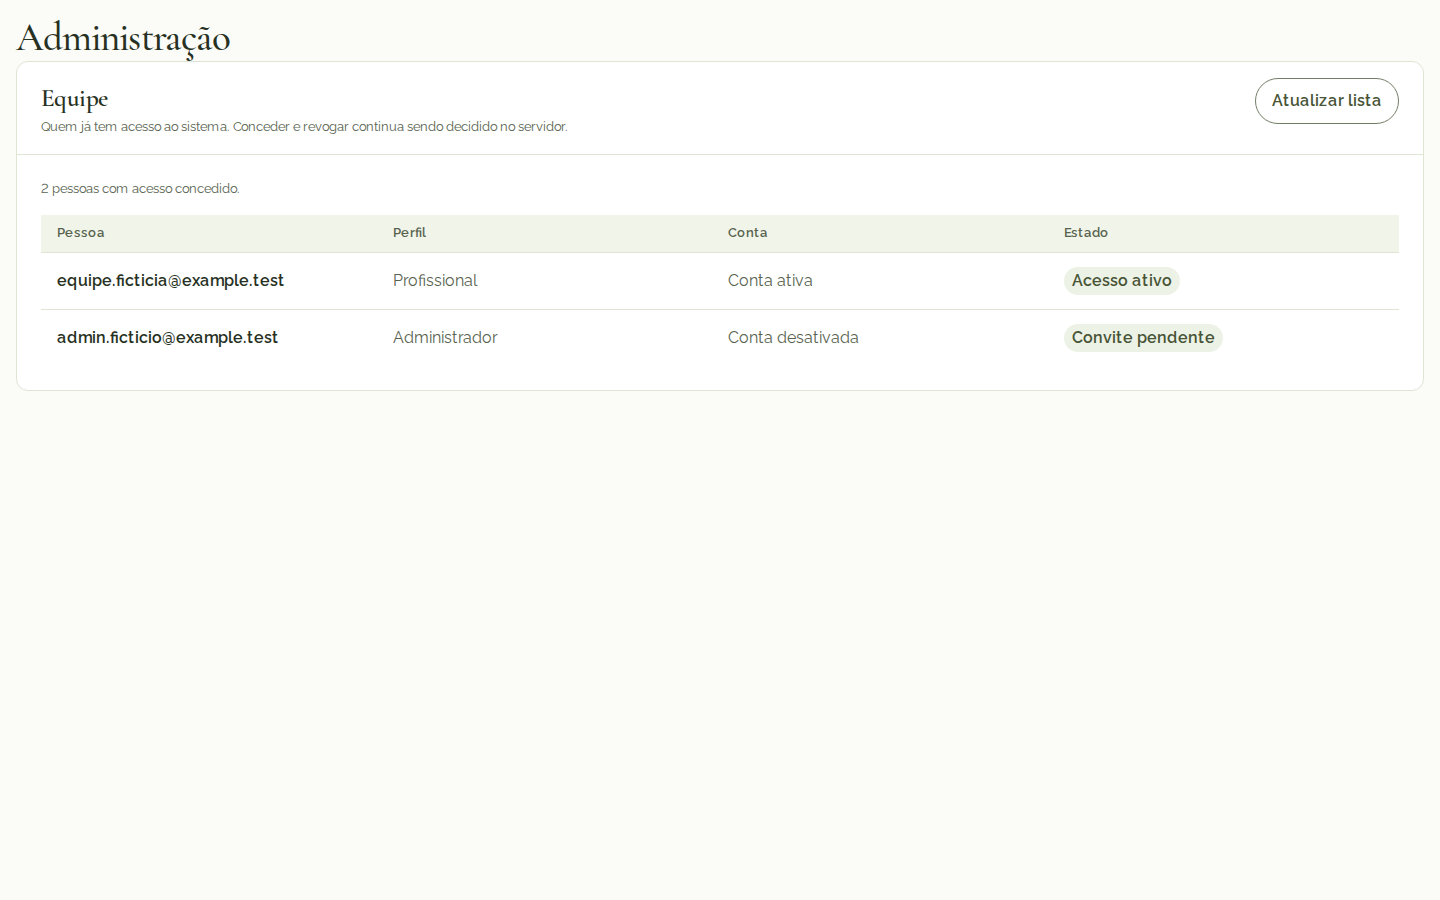
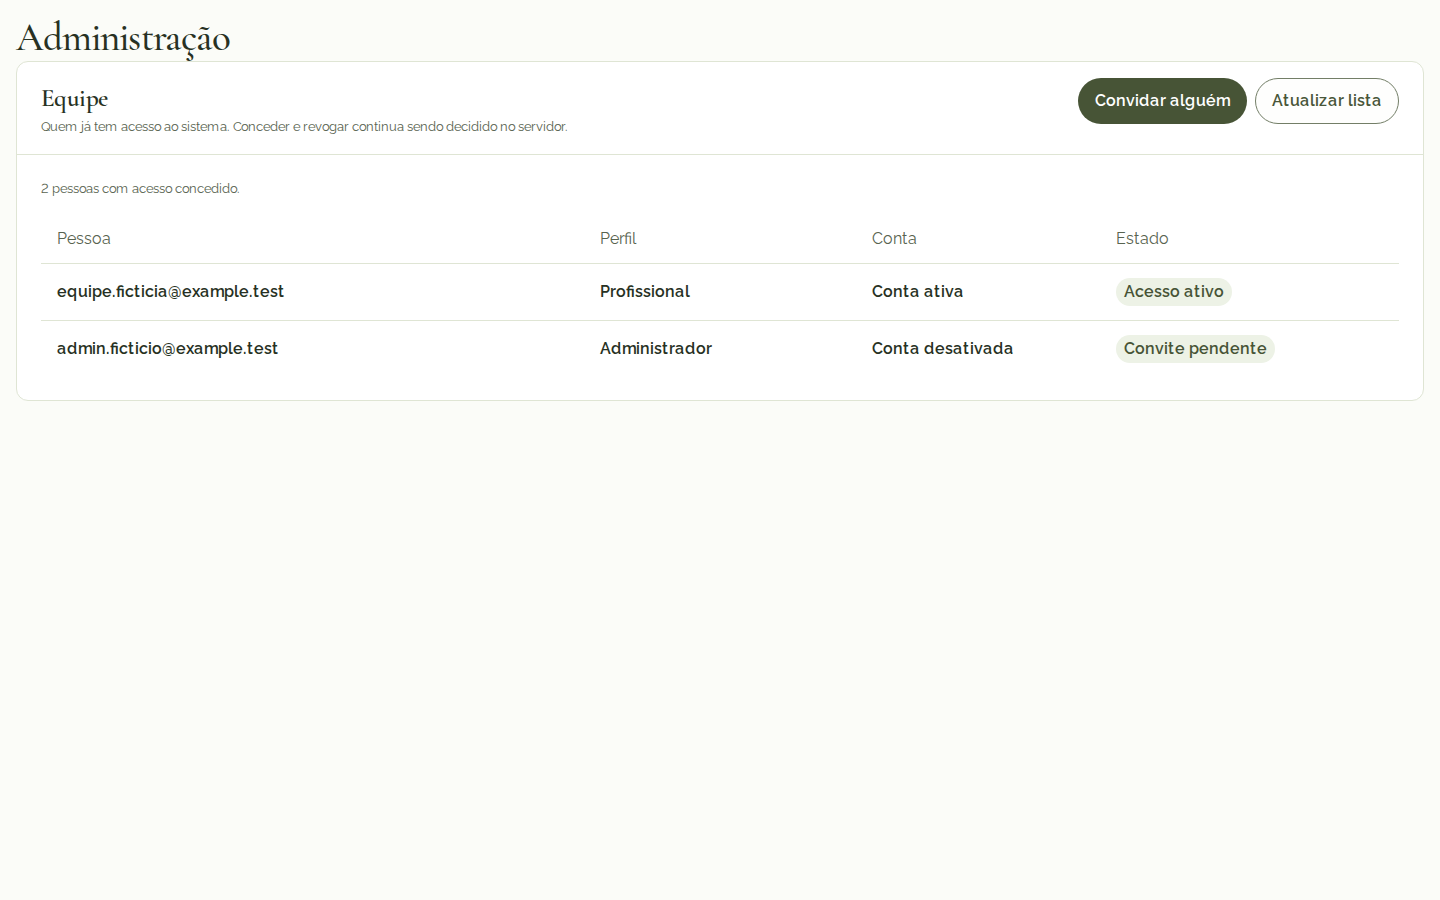
feat(equipe): link Convidar alguém na tela da Equipe, após o rebase sobre a tabela (#49)

diff --git a/web/concessao-equipe.tsx b/web/concessao-equipe.tsx
@@ -26,7 +26,7 @@
  */
 import { useCallback, useEffect, useRef, useState } from 'react';
 import type { ClienteFFCM } from './api.js';
-import { Botao } from './componentes/ui/botao.js';
+import { Botao, classesBotao } from './componentes/ui/botao.js';
 import { Esqueleto } from './componentes/ui/esqueleto.js';
 import { EstadoErro } from './componentes/ui/estado-erro.js';
 import { EstadoVazio } from './componentes/ui/estado-vazio.js';
@@ -189,15 +189,24 @@ function TelaConcessaoEquipe({ api }: { api: ClienteFFCM }) {
         titulo="Equipe"
         descricao="Quem já tem acesso ao sistema. Conceder e revogar continua sendo decidido no servidor."
         acao={
-          <Botao
-            peso="secundario"
-            disabled={carregandoLista}
-            aria-busy={carregandoLista || undefined}
-            aoAtivar={() => void carregarLista()}
-          >
-            Atualizar lista
-            {carregandoLista ? <Indicador /> : null}
-          </Botao>
+          <div className="flex flex-wrap gap-2">
+            {/* Convidar é página própria (fatia 7): o link só navega; quem concede é o servidor. */}
+            <a
+              href="#administracao/convidar-equipe"
+              className={classesBotao({ peso: 'principal' })}
+            >
+              Convidar alguém
+            </a>
+            <Botao
+              peso="secundario"
+              disabled={carregandoLista}
+              aria-busy={carregandoLista || undefined}
+              aoAtivar={() => void carregarLista()}
+            >
+              Atualizar lista
+              {carregandoLista ? <Indicador /> : null}
+            </Botao>
+          </div>
         }
       >
         <div className="grid gap-4">

diff --git a/scripts/prova-celular/convidar-equipe.pw.ts b/scripts/prova-celular/convidar-equipe.pw.ts
@@ -135,6 +135,28 @@ for (const viewport of VIEWPORTS) {
   });
 }
 
+/** A Equipe (com a tabela da fatia 5) leva à página de convite por um link, com a folha carregada. */
+for (const viewport of VIEWPORTS) {
+  test(`Equipe mostra a tabela e o link para convidar (${viewport.nome})`, async ({ page }) => {
+    await page.setViewportSize({ width: viewport.width, height: viewport.height });
+    await page.goto(`${origem}${PAGINA}?tela=equipe`);
+    const link = page.getByRole('link', { name: 'Convidar alguém' });
+    await expect(link).toHaveAttribute('href', '#administracao/convidar-equipe');
+    await expect(link).toHaveCSS('border-top-left-radius', '999px');
+    await expect(link).toHaveCSS('background-color', 'rgb(71, 84, 54)');
+    if (viewport.width >= 720) {
+      await expect(page.getByRole('table')).toBeVisible();
+      await expect(page.getByRole('columnheader', { name: 'Pessoa' })).toBeVisible();
+    } else {
+      await expect(page.getByRole('table')).toBeHidden();
+    }
+    await expect(
+      page.getByText('equipe.ficticia@example.test').locator('visible=true'),
+    ).toHaveCount(1);
+    await conferirAxe(page, `convidar-equipe — Equipe ${viewport.nome}`);
+  });
+}
+
 /** Capturas para o PR (só com `CAPTURAS=<pasta>`), tiradas com a folha COMPROVADA. */
 test('capturas com a folha carregada', async ({ page }) => {
   const pasta = process.env.CAPTURAS;

diff --git a/web/concessao-equipe.test.tsx b/web/concessao-equipe.test.tsx
@@ -116,3 +116,15 @@ it('diz que a equipe não pôde ser carregada em vez de ficar com a lista muda',
   expect(raiz.querySelector('[aria-busy="true"]')).toBeNull();
   expect(linhasDaEquipe(raiz)).toHaveLength(0);
 });
+
+it('oferece o link para a página própria de convite', async () => {
+  const raiz = document.createElement('div');
+  const api = {
+    identidadeAtual: () => ({ usuario_id: ator, session_id: ator }),
+    listarProfissionais: vi.fn().mockResolvedValue({ itens: [], proximo_cursor: null }),
+  } as unknown as ClienteFFCM;
+  montarConcessaoEquipe(raiz, api);
+  await vi.waitFor(() =>
+    expect(raiz.querySelector('a[href="#administracao/convidar-equipe"]')).not.toBeNull(),
+  );
+});
